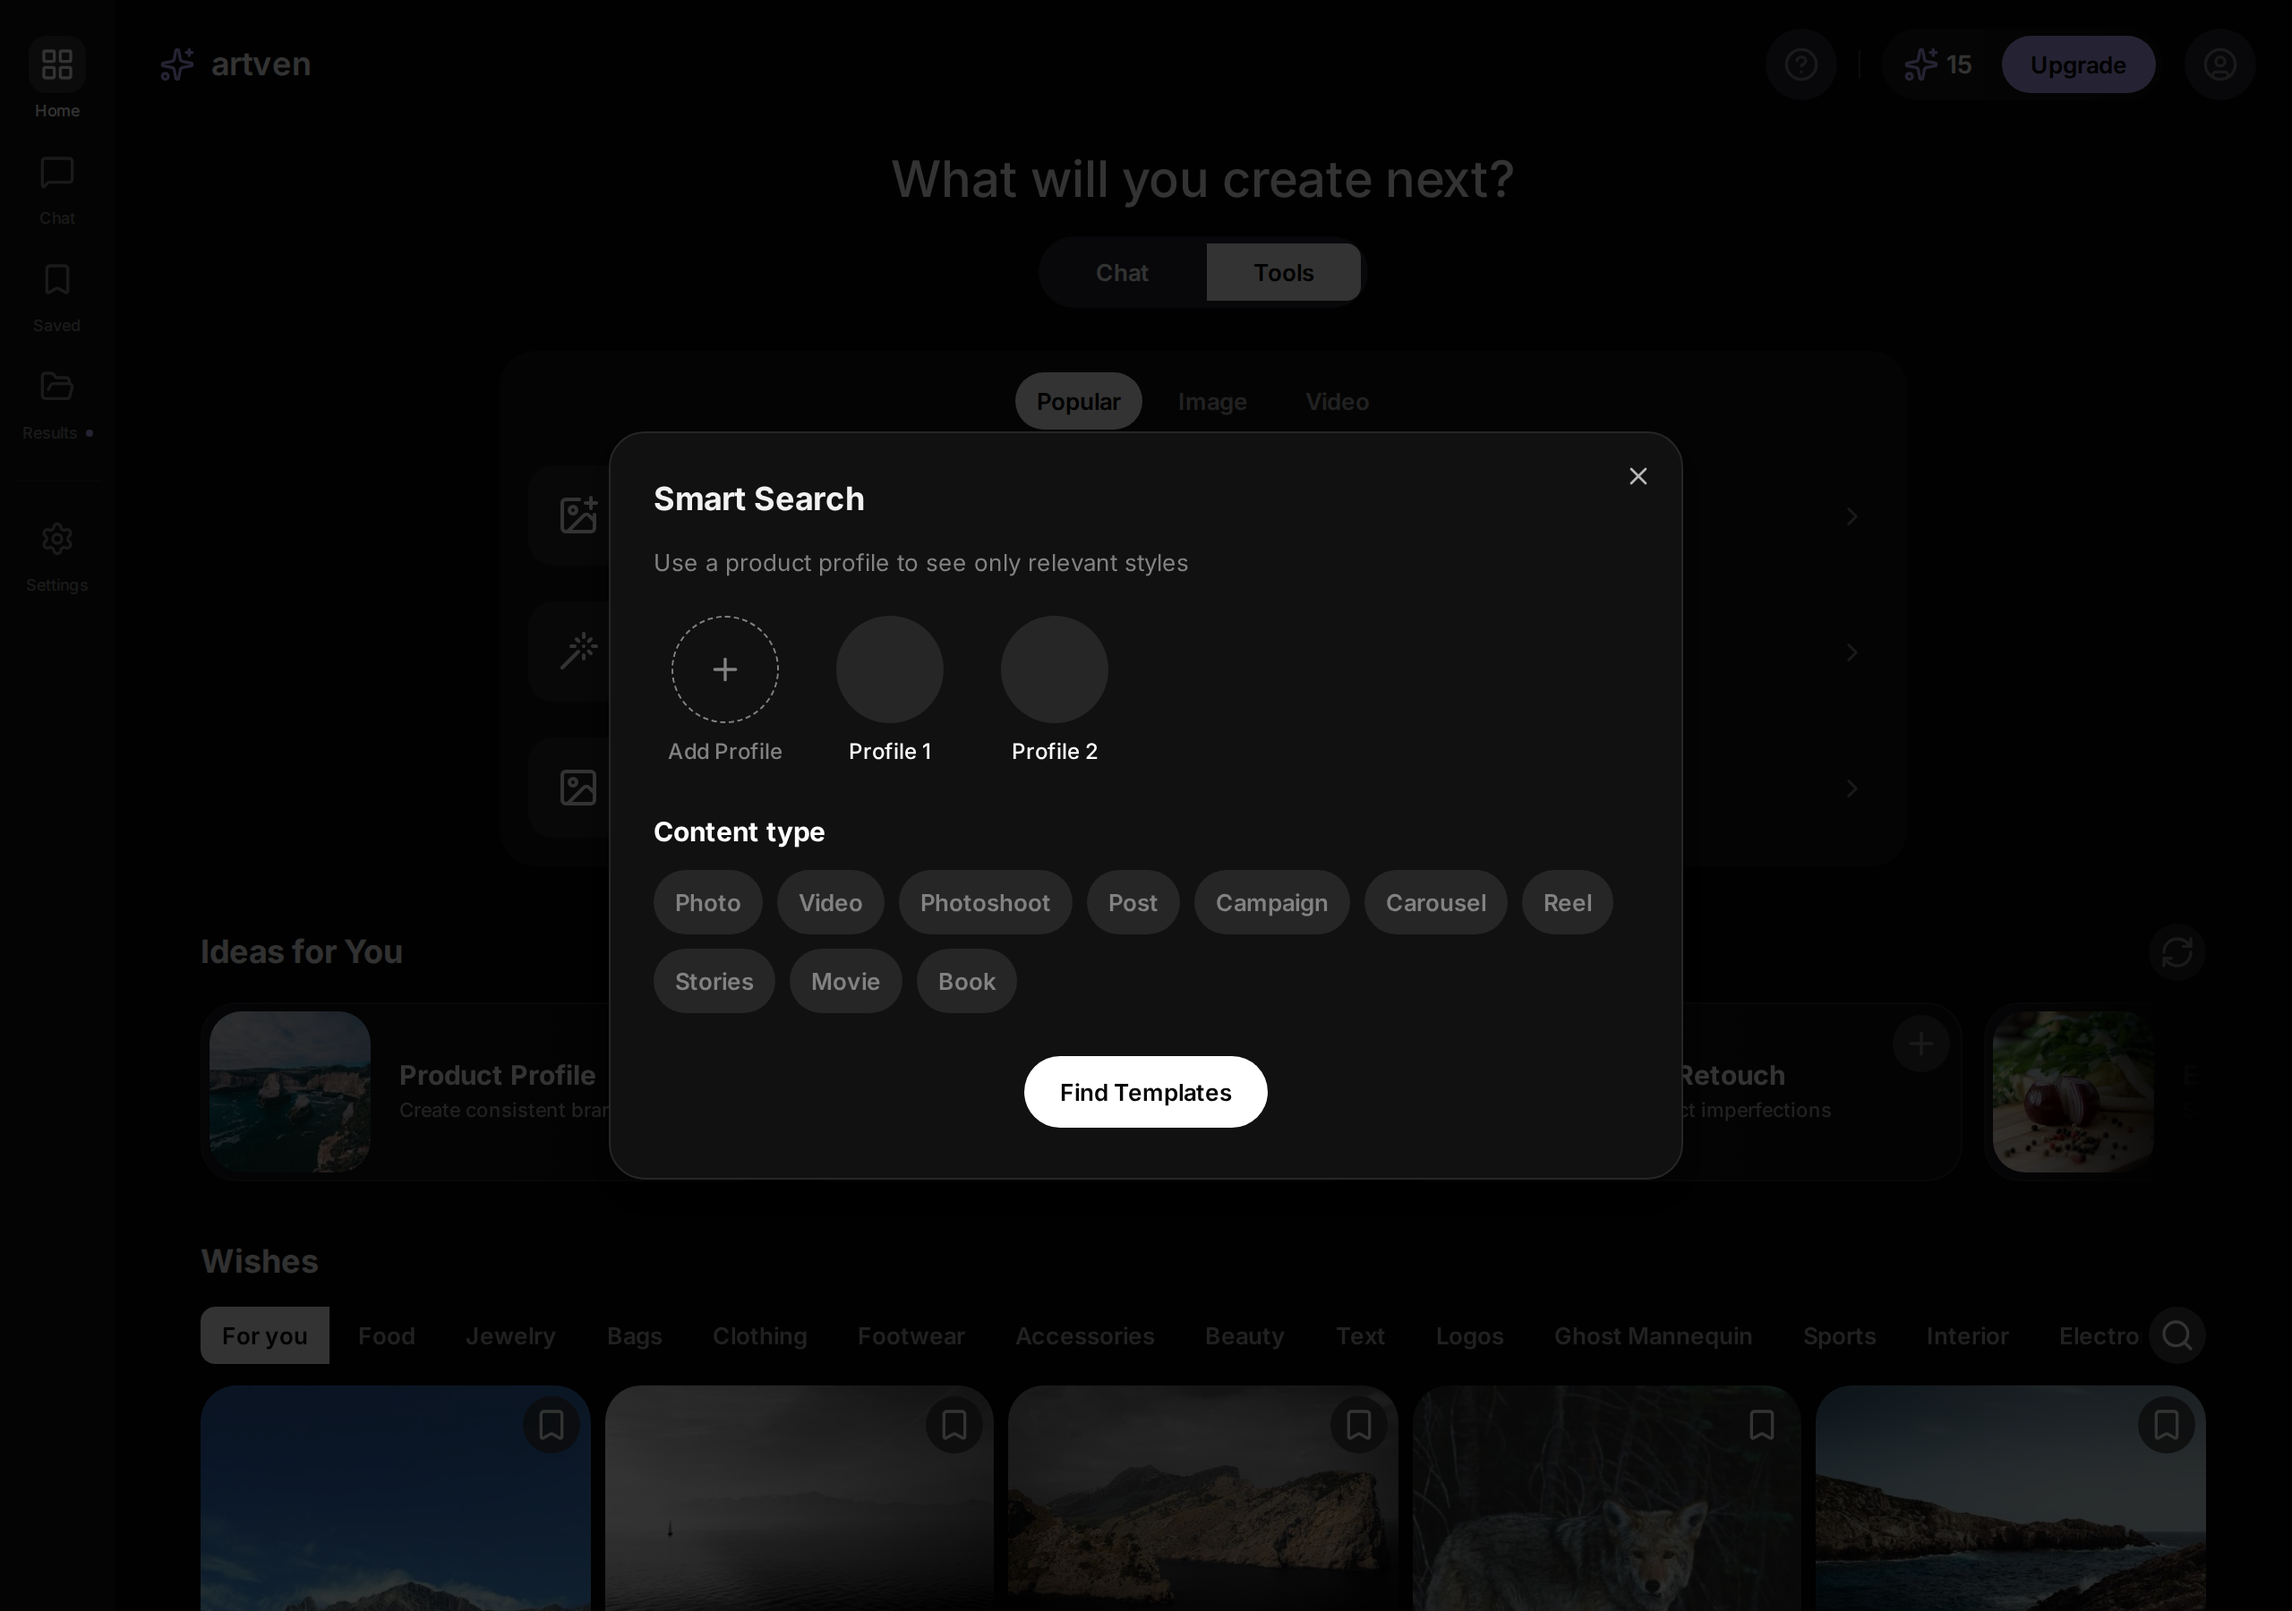
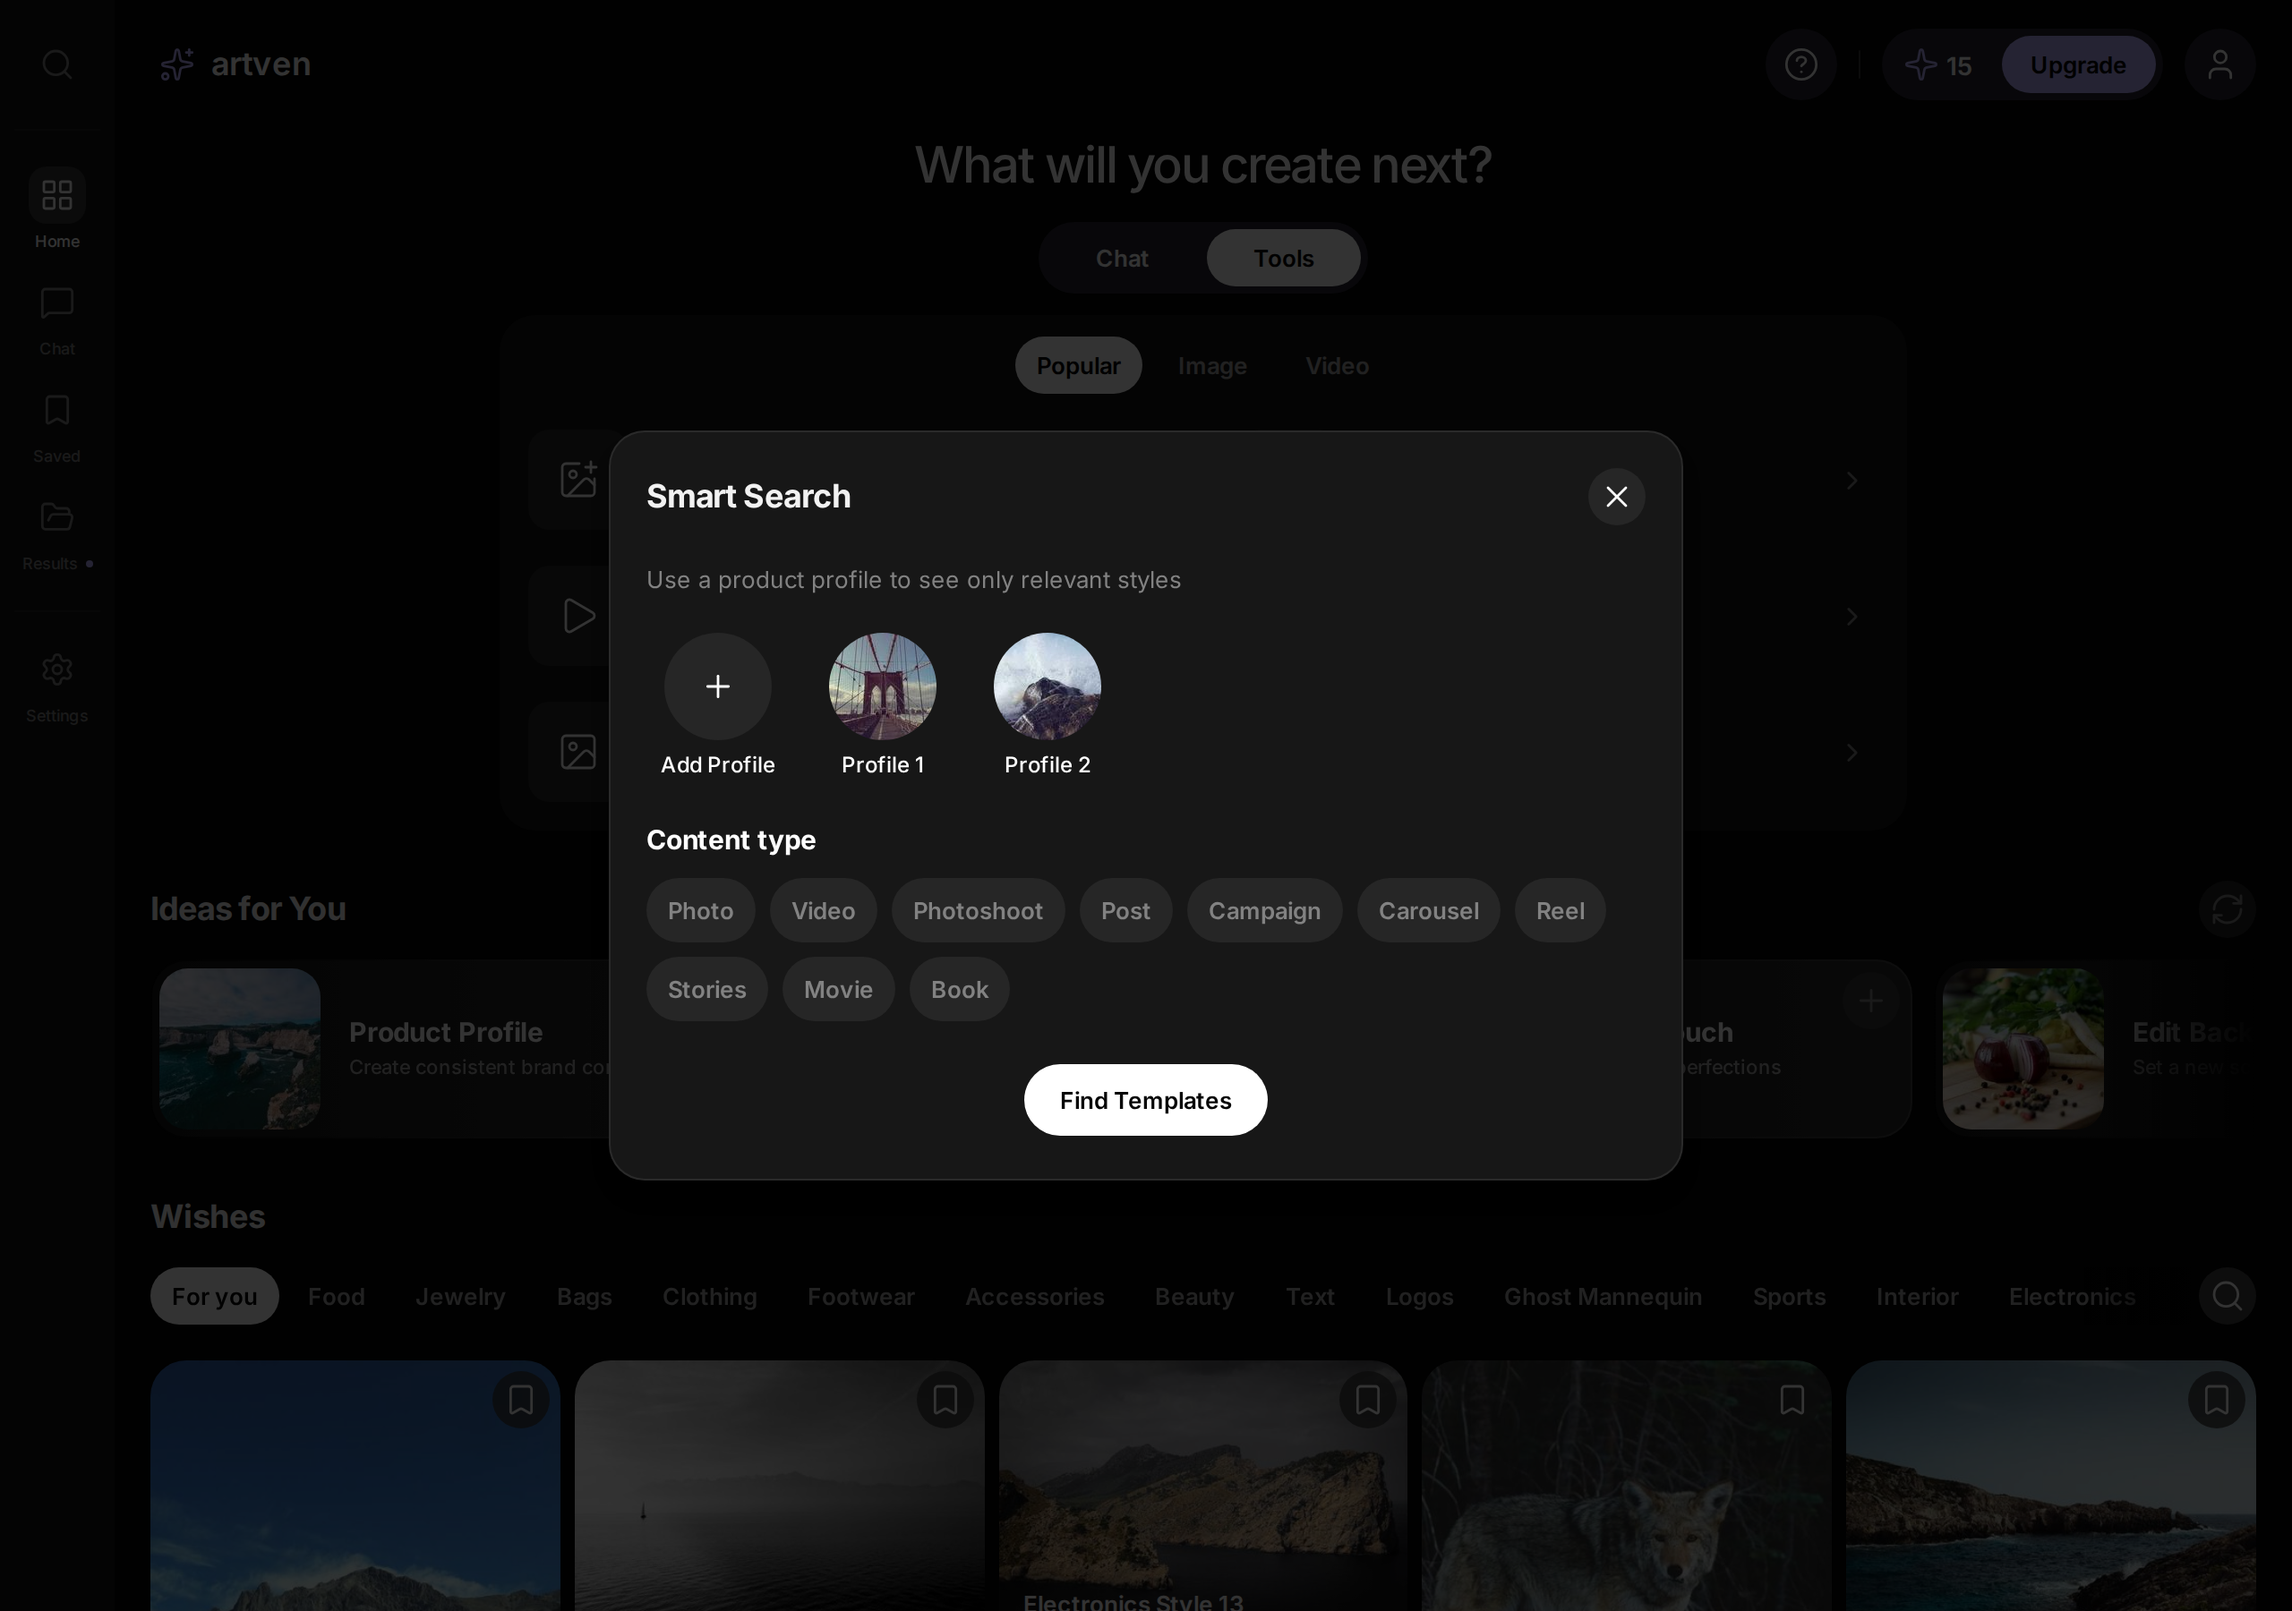
Release per version and update screenshots (#13)
* Releases. Released the demo per version with generated notes, updated screenshots and bumped to 1.1.0.

* Releases. Released only after CI on main with scoped permissions and version checks; screenshots wait for visible images.

* Releases. Ignored fork and pull request CI runs, rejected prereleases and API errors, and redeployed the latest release on manual runs.

* Releases. Ignored drafts and prereleases, picked the highest stable release, guarded stray tags and timed out stalled screenshot images.

diff --git a/scripts/capture-screenshots.ts b/scripts/capture-screenshots.ts
@@ -19,11 +19,32 @@ const outputDir = 'docs/screenshots'
 /** Desktop size of the Figma frames. */
 const VIEWPORT = { width: 1280, height: 900 }
 
-/** Waits until the mock data and lazy images of the page have loaded. */
+/**
+ * Waits until every image inside the viewport is decoded, so it is painted in the capture.
+ * A broken image also counts as settled, lazy images below the fold are ignored, and a stalled
+ * request fails after 15 s.
+ */
+async function waitForVisibleImages(page: Page): Promise<void> {
+  const imagesDecoded = page.evaluate(async () => {
+    const visibleImages = [...document.images].filter((image) => {
+      const box = image.getBoundingClientRect()
+      return box.width > 0 && box.bottom > 0 && box.top < innerHeight
+    })
+    await Promise.all(visibleImages.map((image) => image.decode().catch(() => undefined)))
+  })
+  // A stalled image request must fail the capture loudly instead of hanging it.
+  const timeout = new Promise<never>((_, reject) =>
+    setTimeout(() => reject(new Error('Images did not load within 15 s')), 15_000).unref(),
+  )
+  await Promise.race([imagesDecoded, timeout])
+}
+
+/** Waits until the heading, the mock data, the font and the visible images are ready. */
 async function waitForContent(page: Page): Promise<void> {
   await page.getByRole('heading', { level: 1 }).waitFor()
   await page.waitForLoadState('networkidle')
   await page.evaluate(() => document.fonts.ready)
+  await waitForVisibleImages(page)
 }
 
 /** Waits until opening animations end, so dialogs and menus are captured fully opaque. */
@@ -54,6 +75,7 @@ await page.screenshot({ path: `${outputDir}/home-tools.png` })
 
 await page.getByRole('button', { name: 'Smart Search' }).click()
 await page.getByRole('dialog').waitFor()
+await waitForVisibleImages(page)
 await waitForAnimations(page)
 await page.screenshot({ path: `${outputDir}/smart-search.png` })
 await page.keyboard.press('Escape')

diff --git a/README.md b/README.md
@@ -3,7 +3,7 @@
 A test task for glam.ai, written with AI during a technical interview. It is the home screen of Artven, an AI content studio, built from a Figma mockup: a user starts a chat, picks a creative tool or reuses a template. There is no backend: all data comes from mock functions.
 
 [![CI](https://github.com/Anu3ev/glam.ai-test/actions/workflows/ci.yml/badge.svg)](https://github.com/Anu3ev/glam.ai-test/actions/workflows/ci.yml)
-[![Deploy](https://github.com/Anu3ev/glam.ai-test/actions/workflows/pages.yml/badge.svg)](https://github.com/Anu3ev/glam.ai-test/actions/workflows/pages.yml)
+[![Release](https://github.com/Anu3ev/glam.ai-test/actions/workflows/release.yml/badge.svg)](https://github.com/Anu3ev/glam.ai-test/actions/workflows/release.yml)
 
 **Demo:** <https://anu3ev.github.io/glam.ai-test/>
 
@@ -49,6 +49,10 @@ npm run dev
 | `npm run test:e2e` | Playwright tests, including computed-value checks against the Figma design |
 | `node scripts/fetch-figma.ts [name nodeId...]` | Refresh the cached Figma data; needs `FIGMA_TOKEN` in `.env.local` |
 | `node scripts/capture-screenshots.ts` | Update the screenshots above from a running `vite preview` |
+
+## Releases
+
+The demo shows the latest release. To ship a change, bump `version` in `package.json` in its pull request (`npm version <patch|minor|major> --no-git-tag-version`: patch for fixes, minor for features, major for breaking changes). After the merge and a green CI run on `main`, the Release workflow builds that commit, deploys it to GitHub Pages and publishes the GitHub Release `v<version>` with the merged pull requests as notes. The version must be `X.Y.Z` and greater than the latest release. Merges without a version bump do not change the demo. Bump one version per merge: with several quick bumps, releases follow the order CI finishes, so a middle version can be skipped. Running the Release workflow by hand redeploys the latest release, for example after a lost Pages deployment.
 
 ## Project structure
 

diff --git a/docs/decisions/README.md b/docs/decisions/README.md
@@ -2,6 +2,12 @@
 
 Newest first. A changed decision gets a new entry that links to the old one.
 
+## 2026-11-19 · Releases deploy the demo
+
+- **Decision:** `.github/workflows/release.yml` replaces the deploy-on-every-push Pages workflow. After CI passes for a push to `main` of this repository (not pull request or fork runs), a commit whose `package.json` version has no release yet is built by a read-only job, deployed to GitHub Pages, and then published as the GitHub Release `v<version>` with notes generated from the merged pull requests. The version must be `X.Y.Z` and greater than the latest release. A manual run redeploys the latest release. The version starts at 1.1.0 (the design fidelity work after `v1.0.0`). Replaces the deploy part of [Tests, CI and preview](#2026-11-19--tests-ci-and-preview).
+- **Why:** The demo should match a named version, and each version should have notes. Before this, `v1.0.0` was made by hand and `package.json` said `0.0.0`.
+- **Cost:** A change reaches the demo only when its pull request bumps the version. GitHub keeps one queued run, so when several bumps merge during a release, the middle one gets no tag; its pull requests appear in the next release's notes.
+
 ## 2026-11-19 · Design fidelity pass against Figma
 
 - **Decision:** A read-only audit compared every control with the Figma data, with a skeptic verifying each finding; 25 confirmed mismatches were fixed. Among them: mode switch and chips lost their pill radius to shadcn's `data-[spacing=0]` corner rules (fixed with `:spacing="1"`), invented hover fills were removed (Figma defines no hover state), the Smart Search dialog, menus, tile caption and gradients now use the Figma values, and the page content is 1216 px wide. `e2e/tests/design-fidelity.spec.ts` checks the computed values.
